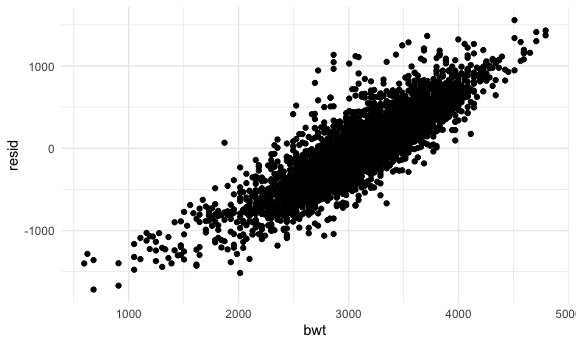
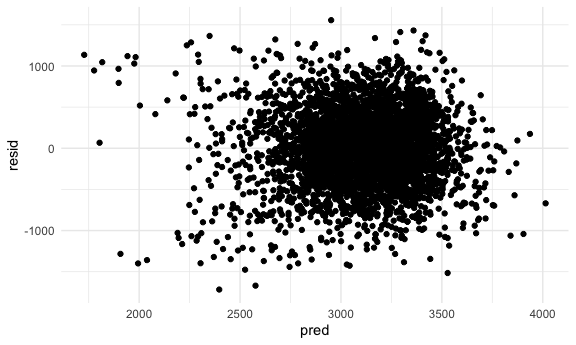
mrace as a logical variable; using predictors on x axis and residuals on y axis for plot

diff --git a/p8105_hw6_rr3423.md b/p8105_hw6_rr3423.md
@@ -111,9 +111,11 @@ birthweight_data %>%
 
 All of the variables in the birthweight dataset are numeric.
 
-There are four numeric categorical variables in the dataset which should
-be converted to factor variables (based on the homework dataset
-description): babysex, frace, malform. and mrace.
+There are three numeric categorical variables in the dataset which
+should be converted to factor variables (based on the homework dataset
+description): babysex, frace, and mrace. The mrace variable should be
+converted to a logical variable because it is corresponding to a binary
+choice (0 = absent or 1 = present).
 
 Checking the distinct categories in each variable:
 
@@ -176,8 +178,8 @@ the homework data description. The mrace variable only has four distinct
 categories, which are not consistent with the homework data description
 (category 8 ‘other’ is not included in this dataset).
 
-Converting the numeric variables to factor variables to tidy the data
-for regression analysis:
+Converting the numeric variables to factor or logical variables to tidy
+the data for regression analysis:
 
 ``` r
 # tidying dataset for regression analysis
@@ -192,7 +194,6 @@ birthweight_df =
     frace = factor(frace, levels = c("White", "Black", "Asian",
                                      "Puerto Rican", "Other")),
     malform = recode(malform, "0" = "absent", "1" = "present"),
-    malform = factor(malform, levels = c("absent", "present")),
     mrace = recode(mrace, "1" = "White", "2" = "Black", 
                    "3" = "Asian", "4" = "Puerto Rican"),
     mrace = factor(mrace, levels = c("White", "Black", "Asian", "Puerto Rican"))
@@ -283,21 +284,11 @@ creating plot
 birthweight_df %>% 
   add_residuals(fit) %>% 
   add_predictions(fit) %>% 
-  ggplot(aes(x = bwt, y = resid)) + 
-  geom_point()
-```
-
-<img src="p8105_hw6_rr3423_files/figure-gfm/add_residuals-1.png" width="90%" />
-
-``` r
-birthweight_df %>% 
-  add_residuals(fit) %>% 
-  add_predictions(fit) %>% 
   ggplot(aes(x = pred, y = resid)) + 
   geom_point()
 ```
 
-<img src="p8105_hw6_rr3423_files/figure-gfm/add_residuals-2.png" width="90%" />
+<img src="p8105_hw6_rr3423_files/figure-gfm/add_residuals-1.png" width="90%" />
 
 ### Comparing model to two other models
 
